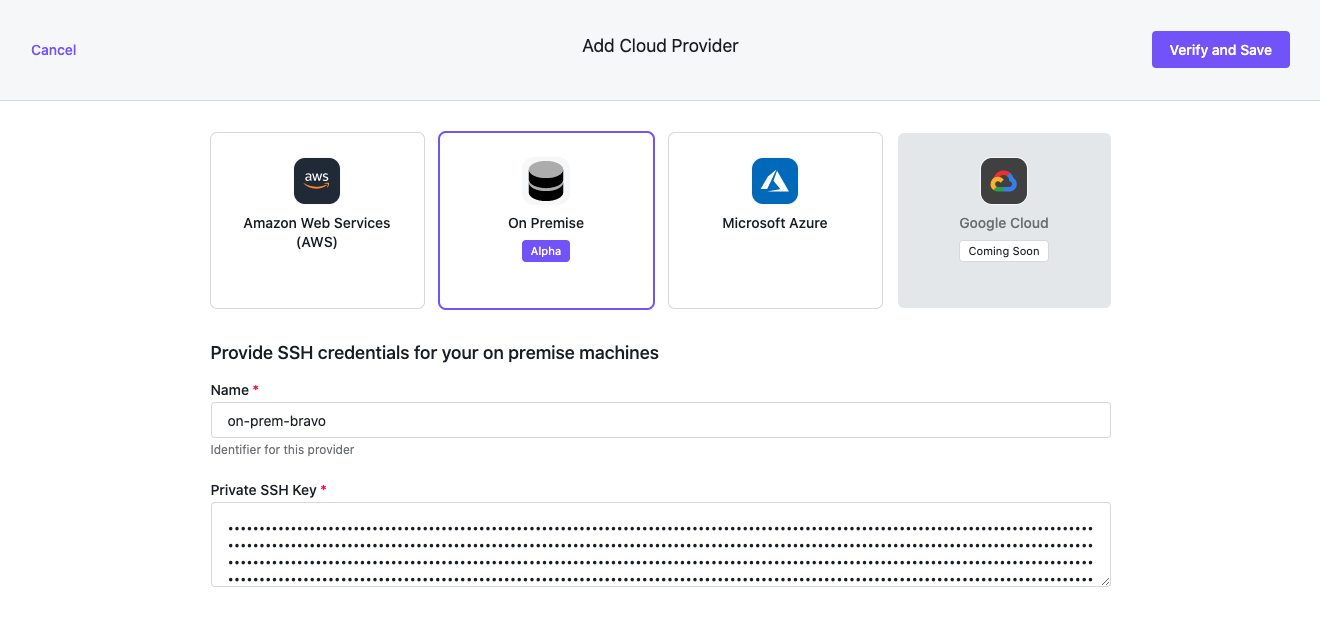
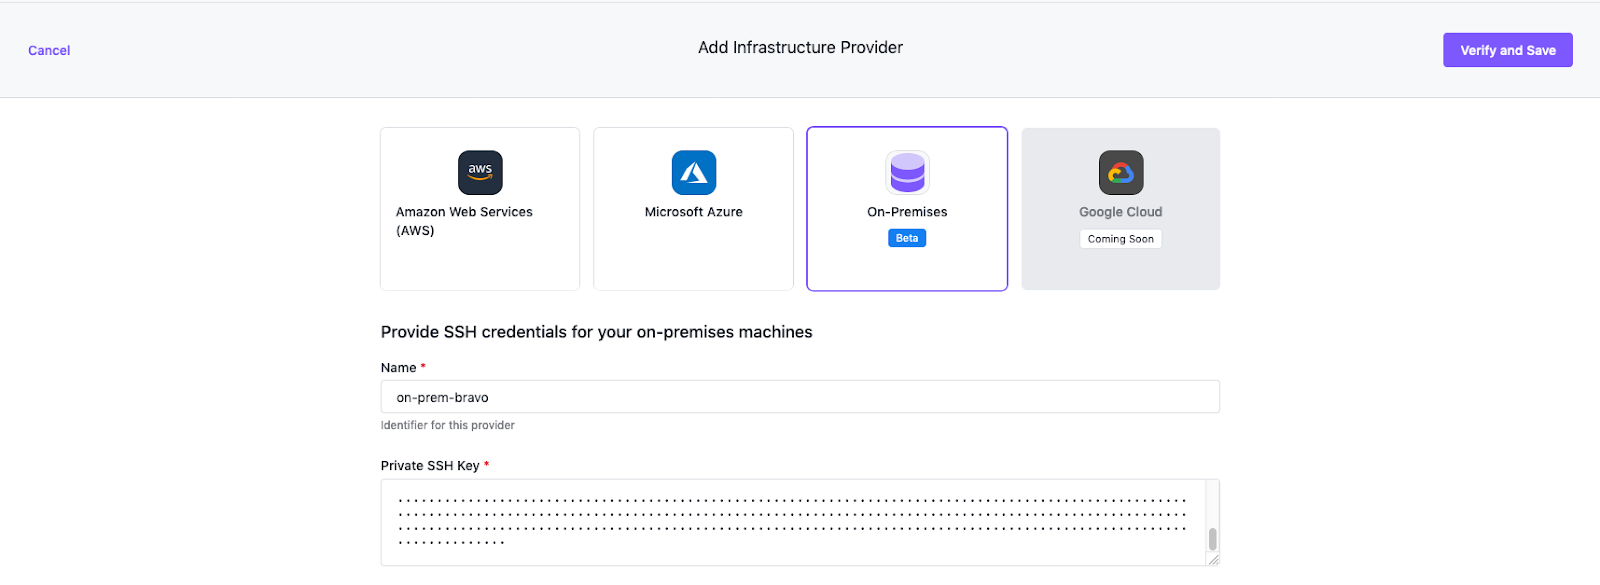
docs(Kommander): rename cloud providers to infrastructure providers
Updated all references to cloud providers in Kommander to align
with the rename to Infrastructure Providers in the app.
Replaced all screenshots and update documentation where necassary.

diff --git a/pages/ksphere/kommander/1.1.0-beta/operations/infrastructure-providers/configure-aws-infrastructure-provider-roles/index.md b/pages/ksphere/kommander/1.1.0-beta/operations/infrastructure-providers/configure-aws-infrastructure-provider-roles/index.md
@@ -1,11 +1,11 @@
 ---
 layout: layout.pug
-navigationTitle: Configure an AWS Cloud Provider with a User Role
+navigationTitle: Configure an AWS Provider with a User Role
 title: AWS Role Credentials
-excerpt: Configure an AWS Cloud Provider with a User Role
+excerpt: Configure an AWS Infrastructure Provider with a User Role
 ---
 
-### Configure an AWS Cloud Provider with a User Role
+### Configure an AWS Infrastructure Provider with a User Role
 
 <p class="message--important"><strong>IMPORTANT: </strong>We highly recommend using the Role-based method as this is more secure.</p>
 
@@ -137,7 +137,7 @@ The user you delegate from your role must have a minimum set of permissions. Bel
 ```
 
 Make sure to also add a correct [trust relationship][iam_roles] to the created role.
-The example allows everyone within the same account to `AssumeRole` the created role.
+The example allows everyone within the same account to `AssumeRole` with the created role.
 `YOURACCOUNTRESTRICTION` must be replaced with the AWS Account ID you would like to `AssumeRole` from.
 
 <p class="message--important"><strong>IMPORTANT: </strong>Never add a `*` / wildcard, you would open your account for the whole world.</p>
@@ -158,8 +158,8 @@ The example allows everyone within the same account to `AssumeRole` the created 
 }
 ```
 
-To use the role created attach the following policy to the role which is already attached to your Kommander cluster.
-`YOURACCOUNTRESTRICTION` must be replaced with the AWS Account ID where the role you like to `AssumeRole` is saved. Also `THEROLEYOUCREATED` must be replaced with the AWS Role name.
+To use the role created, attach the following policy to the role which is already attached to your Kommander cluster.
+Replace `YOURACCOUNTRESTRICTION` with the AWS Accoount ID where the role you like to `AssumeRole` is saved. Also, replace `THEROLEYOUCREATED` with the AWS Role name.
 
 ```json
 {
@@ -175,7 +175,9 @@ To use the role created attach the following policy to the role which is already
 }
 ```
 
-Instead of doing this manually you can add this file, `iam-stsAssumeKommander.tf`, into the `extras/provisioner/` directory next to your `cluster.yaml` file.
+#### Create role when creating the management cluster
+
+Instead of doing this manually you can create the following file, name it, `iam-stsAssumeKommander.tf`, into the `extras/provisioner/` directory next to your `cluster.yaml` file. This will create the role when you create or update your cluster with `konvoy up`. Ensure you replace `THEROLEYOUCREATED` with the AWS Role name.
 
 ```terraform
 # Attaching sts:AssumeRole to the default node role from konvoy
@@ -199,17 +201,28 @@ EOF
 }
 ```
 
+### Create Infrastructure Provider
+
 In Kommander, select the Workspace associated with the credentials you are adding.
 
-Navigate to **Administration > Cloud Providers** and click the **Add Cloud Provider** button.
+Navigate to **Administration > Infrastructure Providers** and click the **Add Infrastructure Provider** button.
 
-![Add Cloud Provider](/ksphere/kommander/1.1.0-beta/img/add-cloud-provider.png)
+![Adding an Infrastructure Provider](/ksphere/kommander/1.1.0-beta/img/empty-infrastructure-providers.png)
+<br />_Adding an Infrastructure Provider_
 
-- Select the Amazon Web Services (AWS) option from the Add Cloud Provider.
+![Add Infrastructure Provider Form](/ksphere/kommander/1.1.0-beta/img/add-infrastructure-provider.png)
+<br />_Add Infrastructure Provider Form_
+
+- Select the Amazon Web Services (AWS) option from the Add Infrastructure Provider.
 - Ensure "Role" is selected as the Authentication Method.
-- Select a name for your cloud provider. Consider choosing a name that matches the AWS user.
+- Enter a name for your infrastructure provider. Consider choosing a name that matches the AWS user.
 - Enter the Role ARN.
 - You can add an External ID if you share the Role with a 3rd party. External IDs secure your environment from accidentally used roles. [Here you can read more about External IDs][external_id].
+
+![AWS Role Infrastructure Provider Form](/ksphere/kommander/1.1.0-beta/img/infrastructure-provider-form-aws-role.png)
+<br />_AWS Role Infrastructure Provider Form_
+
+After the provider is created, its display name or role can be updated.
 
 [iam_roles]: https://docs.aws.amazon.com/AWSEC2/latest/UserGuide/iam-roles-for-amazon-ec2.html
 [external_id]: https://docs.aws.amazon.com/IAM/latest/UserGuide/id_roles_create_for-user_externalid.html

diff --git a/pages/ksphere/kommander/1.1.0-beta/operations/infrastructure-providers/configure-azure-infrastructure-provider/index.md b/pages/ksphere/kommander/1.1.0-beta/operations/infrastructure-providers/configure-azure-infrastructure-provider/index.md
@@ -1,0 +1,77 @@
+---
+layout: layout.pug
+navigationTitle: Configure an Azure Provider
+title: Azure Infrastructure Provider with Static Credentials
+excerpt: Configuring an Azure Infrastructure Provider
+---
+
+### Configuring an Azure infrastructure provider
+
+Before you configure an Azure Infrastructure Provider it's necessary to [install the Azure CLI](https://docs.microsoft.com/en-us/cli/azure/install-azure-cli?view=azure-cli-latest)
+
+#### Create a new set of credentials using CLI commands
+
+To begin, you need a valid Azure account with credentials configured. You must be authorized as a Contributor in your Azure account, with the ability to assign roles to a user. The following commands create an active directory service principal, which you will delegate to Kommander, for creating Konvoy clusters:
+
+```
+az login
+```
+
+Determine the `SUBSCRIPTION_ID` of your account, named `id` in the output of the following command:
+
+```
+az account show
+```
+```json
+{ "environmentName": "AzureCloud", "id": "XXXXXXXX-XXXX-XXXX-XXXX-XXXXXXXXXXXX", "isDefault": true, "name": "ACME Enterprises Subscription", "state": "Enabled", "tenantId": "XXXXXXXX-XXXX-XXXX-XXXX-XXXXXXXXXXXX", "user": { "name": "user@azureacme.onmicrosoft.com", "type": "user" } }
+```
+
+Create the service principal for the provider. Ensure that you replace `SUBSCRIPTION_ID` with the `id` from the previous command output.
+
+```
+az ad sp create-for-rbac --role="Contributor" --scopes="/subscriptions/SUBSCRIPTION_ID"
+```
+
+The command returns data needed to create your infrastructure provider:
+
+```
+{
+  "appId": "APP_ID",
+  "displayName": "name",
+  "name": "http://name",
+  "password": "PASSWORD",
+  "tenant": "TENANT"
+}
+```
+
+Next, you will assign the service principal the role of `User Access Administrator`. Replace `APP_ID` with the `appId` value from the output of the previous command:
+
+```
+az role assignment create --assignee "APP_ID" --role "User Access Administrator"
+```
+
+
+#### Fill out the Add Infrastructure Provider form
+
+In Kommander, select the Workspace associated with the credentials you are adding.
+
+Navigate to **Administration > Infrastructure Providers** and click the **Add Infrastructure Provider** button.
+
+![Adding an Infrastructure Provider](/ksphere/kommander/1.1.0-beta/img/empty-infrastructure-providers.png)
+<br />_Adding an Infrastructure Provider_
+
+![Add Azure Infrastructure Provider Form](/ksphere/kommander/1.1.0-beta/img/add-azure-infrastructure-provider.png)
+<br />_Add Azure Infrastructure Provider Form_
+
+- Enter a name for your infrastructure provider. Consider choosing a name that matches the Azure user.
+- Use the values assigned when you created the service principal above:
+  - Fill in Client ID with the `APP_ID` value.
+  - Fill in Client Secret with the `PASSWORD` value.
+  - Fill in Tenant ID with the `TENANT` value.
+  - Fill in Subscription ID with the `SUBSCRIPTION_ID` value.
+- Select **Verify and Save** to verify the credentials are valid and to save your provider.
+
+![Azure Infrastructure Provider Form with values](/ksphere/kommander/1.1.0-beta/img/Azure-Infrastructure-provider-with-values.png)
+<br />_Azure Infrastructure Provider Form with values_
+
+After the provider is created, its display name or credentials can be updated.

diff --git a/pages/ksphere/kommander/1.1.0-beta/operations/infrastructure-providers/configure-aws-infrastructure-provider-static-credentials/index.md b/pages/ksphere/kommander/1.1.0-beta/operations/infrastructure-providers/configure-aws-infrastructure-provider-static-credentials/index.md
@@ -1,13 +1,13 @@
 ---
 layout: layout.pug
-navigationTitle: Configure an AWS Cloud Provider with Static Credentials
+navigationTitle: Configure an AWS Provider with Static Credentials
 title: AWS Static Credentials
-excerpt: Configuring an AWS Cloud Provider with static credentials
+excerpt: Configuring an AWS Infrastructure Provider with static credentials
 ---
 
-### Configuring an AWS Cloud Provider with static credentials
+### Configuring an AWS Infrastructure Provider with static credentials
 
-When configuring a cloud provider with static credentials, you need an access id and secret key for a user with a set of minimum capabilities.
+When configuring a infrastructure provider with static credentials, you need an access id and secret key for a user with a set of minimum capabilities.
 
 #### Create a new User via CLI commands
 
@@ -156,24 +156,27 @@ Below is the minimal IAM policy required:
 }
 ```
 
-#### Fill out the Add Cloud Provider form
+#### Fill out the Add Infrastructure Provider form
 
 In Kommander, select the Workspace associated with the credentials you are adding.
 
-Navigate to **Administration > Cloud Providers** and select the **Add Cloud Provider** button.
+Navigate to **Administration > Infrastructure Providers** and click the **Add Infrastructure Provider** button.
 
-![Add Cloud Provider](/ksphere/kommander/1.1.0-beta/img/add-cloud-provider.png)
+![Adding an Infrastructure Provider](/ksphere/kommander/1.1.0-beta/img/empty-infrastructure-providers.png)
+<br />_Adding an Infrastructure Provider_
 
-- Select the Amazon Web Services (AWS) option from the Add Cloud Provider form.
+![Add Infrastructure Provider Form](/ksphere/kommander/1.1.0-beta/img/add-infrastructure-provider.png)
+<br />_Add Infrastructure Provider Form_
+
+- Select the Amazon Web Services (AWS) option from the Add Infrastructure Provider form.
 - Ensure **Static** is selected as the Authentication Method.
-- Select a name for your cloud provider for later reference. Consider choosing a name that matches the AWS user.
+- Enter a name for your infrastructure provider for later reference. Consider choosing a name that matches the AWS user.
 - Fill out the access and secret keys using the keys generated above.
-- Select **Verify** and **Save** to verify the credentials are valid and to save your provider.
+- Select **Verify and Save** to verify the credentials are valid and to save your provider.
 
-![Cloud Provider Form with values](/ksphere/kommander/1.1.0-beta/img/Cloud-provider-with-values.png)
+![Infrastructure Provider Form with values](/ksphere/kommander/1.1.0-beta/img/Infrastructure-provider-with-values.png)
+<br />_Infrastructure Provider Form with values_
 
-Cloud Provider Form with values
-
-Once created, a Cloud Provider’s display name or credentials can be updated.
+After the provider is created, its display name or credentials can be updated.
 
 [aws_credentials]: https://docs.aws.amazon.com/cli/latest/userguide/cli-configure-profiles.html

diff --git a/pages/ksphere/kommander/1.1.0-beta/operations/infrastructure-providers/index.md b/pages/ksphere/kommander/1.1.0-beta/operations/infrastructure-providers/index.md
@@ -1,0 +1,38 @@
+---
+layout: layout.pug
+navigationTitle: Infrastructure Providers
+title: Infrastructure Providers
+menuWeight: 1
+excerpt: Managing infrastructure providers used by Kommander
+---
+
+Cloud providers like AWS, Azure and Google provide the infrastructure for your Konvoy clusters. To automate their provisioning, Kommander needs authentication keys to your preferred cloud provider. You may have many accounts for a single cloud provider.
+
+In order to provision new clusters and manage them, Kommander needs cloud provider credentials. Currently AWS, Azure, and On Premise are supported.
+
+### Viewing and Modifying Infrastructure Providers
+
+Cloud Provider credentials are configured within each workspace, so you must first select a workspace. Then, navigate to the Cloud Providers option under Administration.
+
+![Empty Infrastructure Providers Page](/ksphere/kommander/1.1.0-beta/img/empty-infrastructure-providers.png)
+<br />_Empty Infrastructure Providers Page_
+
+![Infrastructure Provider Form](/ksphere/kommander/1.1.0-beta/img/add-infrastructure-provider.png)
+<br />_Infrastructure Provider Form_
+
+#### Configuring an AWS Infrastructure Provider
+
+- [Configure AWS Provider with Role Credentials](/ksphere/kommander/latest/operations/infrastructure-providers/configure-aws-cloud-provider-roles) (Recommended)
+- [Configure AWS Provider with Static Credentials](/ksphere/kommander/latest/operations/infrastructure-providers/configure-aws-cloud-provider-static-credentials)
+
+#### Configuring an Azure Infrastructure Provider
+
+- [Configure Azure Provider with Static Credentials](/ksphere/kommander/latest/operations/infrastructure-providers/configure-azure-cloud-provider)
+
+#### Configuring an On-Premise Infrastructure Provider
+
+- [Configure On-Premise Provider](/ksphere/kommander/latest/operations/infrastructure-providers/configure-on-prem-provider)
+
+### Deleting an infrastructure provider
+
+Before attempting to delete an infrastructure provider, Kommander first verifies if any existing managed clusters were created using this provider. The infrastructure provider cannot be deleted until all clusters, created with the infrastructure provider, have been deleted. This ensures Kommander has access to your cloud provider to remove all resources created for a managed cluster.

diff --git a/pages/ksphere/kommander/1.1.0-beta/clusters/creating-konvoy-cluster-azure/index.md b/pages/ksphere/kommander/1.1.0-beta/clusters/creating-konvoy-cluster-azure/index.md
@@ -8,7 +8,7 @@ excerpt: A guide for creating Konvoy clusters on Azure
 
 ## Prerequisites
 
-Configured [Azure Cloud Provider](/ksphere/kommander/latest/operations/cloud-providers/#configuring-an-azure-cloud-provider)
+Configured [Azure Cloud Provider](/ksphere/kommander/latest/operations/infrastructure-providers/#configuring-an-azure-infrastructure-provider)
 
 ## Simplified Cluster Creation on Azure
 
@@ -20,7 +20,7 @@ From the **Add Cluster** menu, select the **Create Konvoy Cluster** and provide 
 - **Kubernetes Version**: The initial version of Kubernetes to install on the cluster.
 - **Name**: A display name for referencing the cluster.
 
-Now select the preconfigured [Azure Cloud Provider](/ksphere/kommander/latest/operations/cloud-providers/#configuring-an-azure-cloud-provider) to display the remaining options specific to Azure.
+Now select the preconfigured [Azure Infrastructure Provider](/ksphere/kommander/latest/operations/infrastructure-providers/#configuring-an-azure-infrastructure-provider) to display the remaining options specific to Azure.
 
 - **Region**: Select the datacenter region to reveal selectable Availability Zones. [Azure maintains multiple datacenters per region][azure-regions] to provide redundancy and availability.
 - **VNET Name**: The virtual network name in which to create this cluster.

diff --git a/pages/ksphere/kommander/1.1.0-beta/operations/infrastructure-providers/configure-on-prem-provider/index.md b/pages/ksphere/kommander/1.1.0-beta/operations/infrastructure-providers/configure-on-prem-provider/index.md
@@ -1,0 +1,31 @@
+---
+layout: layout.pug
+navigationTitle: Configure an On-Premises provider
+title: On-Premises Infrastrucutre Provider
+excerpt: Configuring an On-Premises infrastructure provider
+---
+
+When creating an On-Premise provider, you need a private SSH key.
+
+### Configure an On Premise provider
+
+Select the Workspace associated with the credentials you are adding.
+
+Navigate to **Administration > Infrastructure Providers** and click the **Add Infrastructure Provider** button.
+
+![Adding an Infrastructure Provider](/ksphere/kommander/1.1.0-beta/img/empty-infrastructure-providers.png)
+<br />_Adding an Infrastructure Provider_
+
+![Add Infrastructure Provider Form](/ksphere/kommander/1.1.0-beta/img/add-infrastructure-provider.png)
+<br />_Add Infrastructure Provider Form_
+
+Select "On-Premises"
+
+- Enter a name for your infrastructure provider for later reference.
+- Fill in Private SSH Key with the key used to access your infrastructure.
+- Click **Verify and Save** to verify the credentials are valid and to save your provider.
+
+![On Premise Provider Form with values](/ksphere/kommander/1.1.0-beta/img/On-prem-provider-with-values.png)
+<br />_On-Premise Provider Form with values_
+
+After the provider is created, its display name or private SSH key can be updated.

diff --git a/pages/ksphere/kommander/1.1.0-beta/clusters/creating-konvoy-cluster-aws/index.md b/pages/ksphere/kommander/1.1.0-beta/clusters/creating-konvoy-cluster-aws/index.md
@@ -8,7 +8,7 @@ excerpt: A guide for creating Konvoy clusters on AWS
 
 ## Prerequisites
 
-Configured [AWS Cloud Provider](/ksphere/kommander/latest/operations/cloud-providers/#configuring-an-aws-cloud-provider)
+Configured [AWS Infrastructure Provider](/ksphere/kommander/latest/operations/infrastructure-providers/#configuring-an-aws-infrastructure-provider)
 
 ## Simplified Cluster Creation on AWS
 
@@ -20,7 +20,7 @@ From the **Add Cluster** menu, select the **Create Konvoy Cluster** and provide 
 - **Kubernetes Version**: The initial version of Kubernetes to install on the cluster.
 - **Name**: A display name for referencing the cluster.
 
-Now select the preconfigured [AWS Cloud Provider](/ksphere/kommander/latest/operations/cloud-providers/#configuring-an-aws-cloud-provider) to display the remaining options specific to AWS.
+Now select the preconfigured [AWS Infrastructure Provider](/ksphere/kommander/latest/operations/infrastructure-providers/#configuring-an-aws-infrastructure-provider) to display the remaining options specific to AWS.
 
 - **Region**: Select the datacenter region to reveal selectable Availability Zones.
 - **Availability Zones**: Indicates the availability zones to use for cluster provisioning.

diff --git a/pages/ksphere/kommander/1.1.0-beta/operations/index.md b/pages/ksphere/kommander/1.1.0-beta/operations/index.md
@@ -6,5 +6,5 @@ menuWeight: 9
 excerpt: Centralized cluster management
 ---
 
-Kommander includes powerful features for operating multiple clusters with advanced configuration. You can connect multiple cloud providers, integrate your organization's identity provider such as a directory service or Github, and map those providers' groups to fit your clusters' access requirements. See the detailed sub-sections for more information.
+Kommander includes powerful features for operating multiple clusters with advanced configuration. You can connect multiple infrastructure providers, integrate your organization's identity provider such as a directory service or Github, and map those providers' groups to fit your clusters' access requirements. See the detailed sub-sections for more information.
 

diff --git a/pages/ksphere/kommander/1.1.0-beta/clusters/creating-konvoy-cluster-on-prem/index.md b/pages/ksphere/kommander/1.1.0-beta/clusters/creating-konvoy-cluster-on-prem/index.md
@@ -8,7 +8,7 @@ excerpt: A guide for creating Konvoy clusters on your own premises' infrastructu
 
 ## Prerequisites
 
-- Configured [On-Prem Cloud Provider](/ksphere/kommander/latest/operations/cloud-providers/#configuring-an-on-premise-provider)
+- Configured [On-Prem Infrastructure Provider](/ksphere/kommander/latest/operations/infrastructure-providers/#configuring-an-on-premise-infrastructure-provider)
 - [konvoy CLI](/ksphere/konvoy/latest/download/)
 
 ## Inventory Your Hosts

diff --git a/pages/ksphere/kommander/1.1.0-beta/tutorials/use-kcl-from-kubectl/index.md b/pages/ksphere/kommander/1.1.0-beta/tutorials/use-kcl-from-kubectl/index.md
@@ -311,6 +311,6 @@ kubectl --kubeconfig sample-kubernetes-tutorial.kubeconfig get namespaces
 kubectl -n workspacetest-r69q2 delete  konvoycluster sample-kubernetes-tutorial
 ```
 
-[infrastructure_provider]: /ksphere/kommander/latest/operations/cloud-providers
+[infrastructure_provider]: /ksphere/kommander/latest/operations/infrastructure-providers
 [kommander_projects]: /ksphere/kommander/latest/projects
 [kommander_workspaces]: /ksphere/kommander/latest/workspaces
